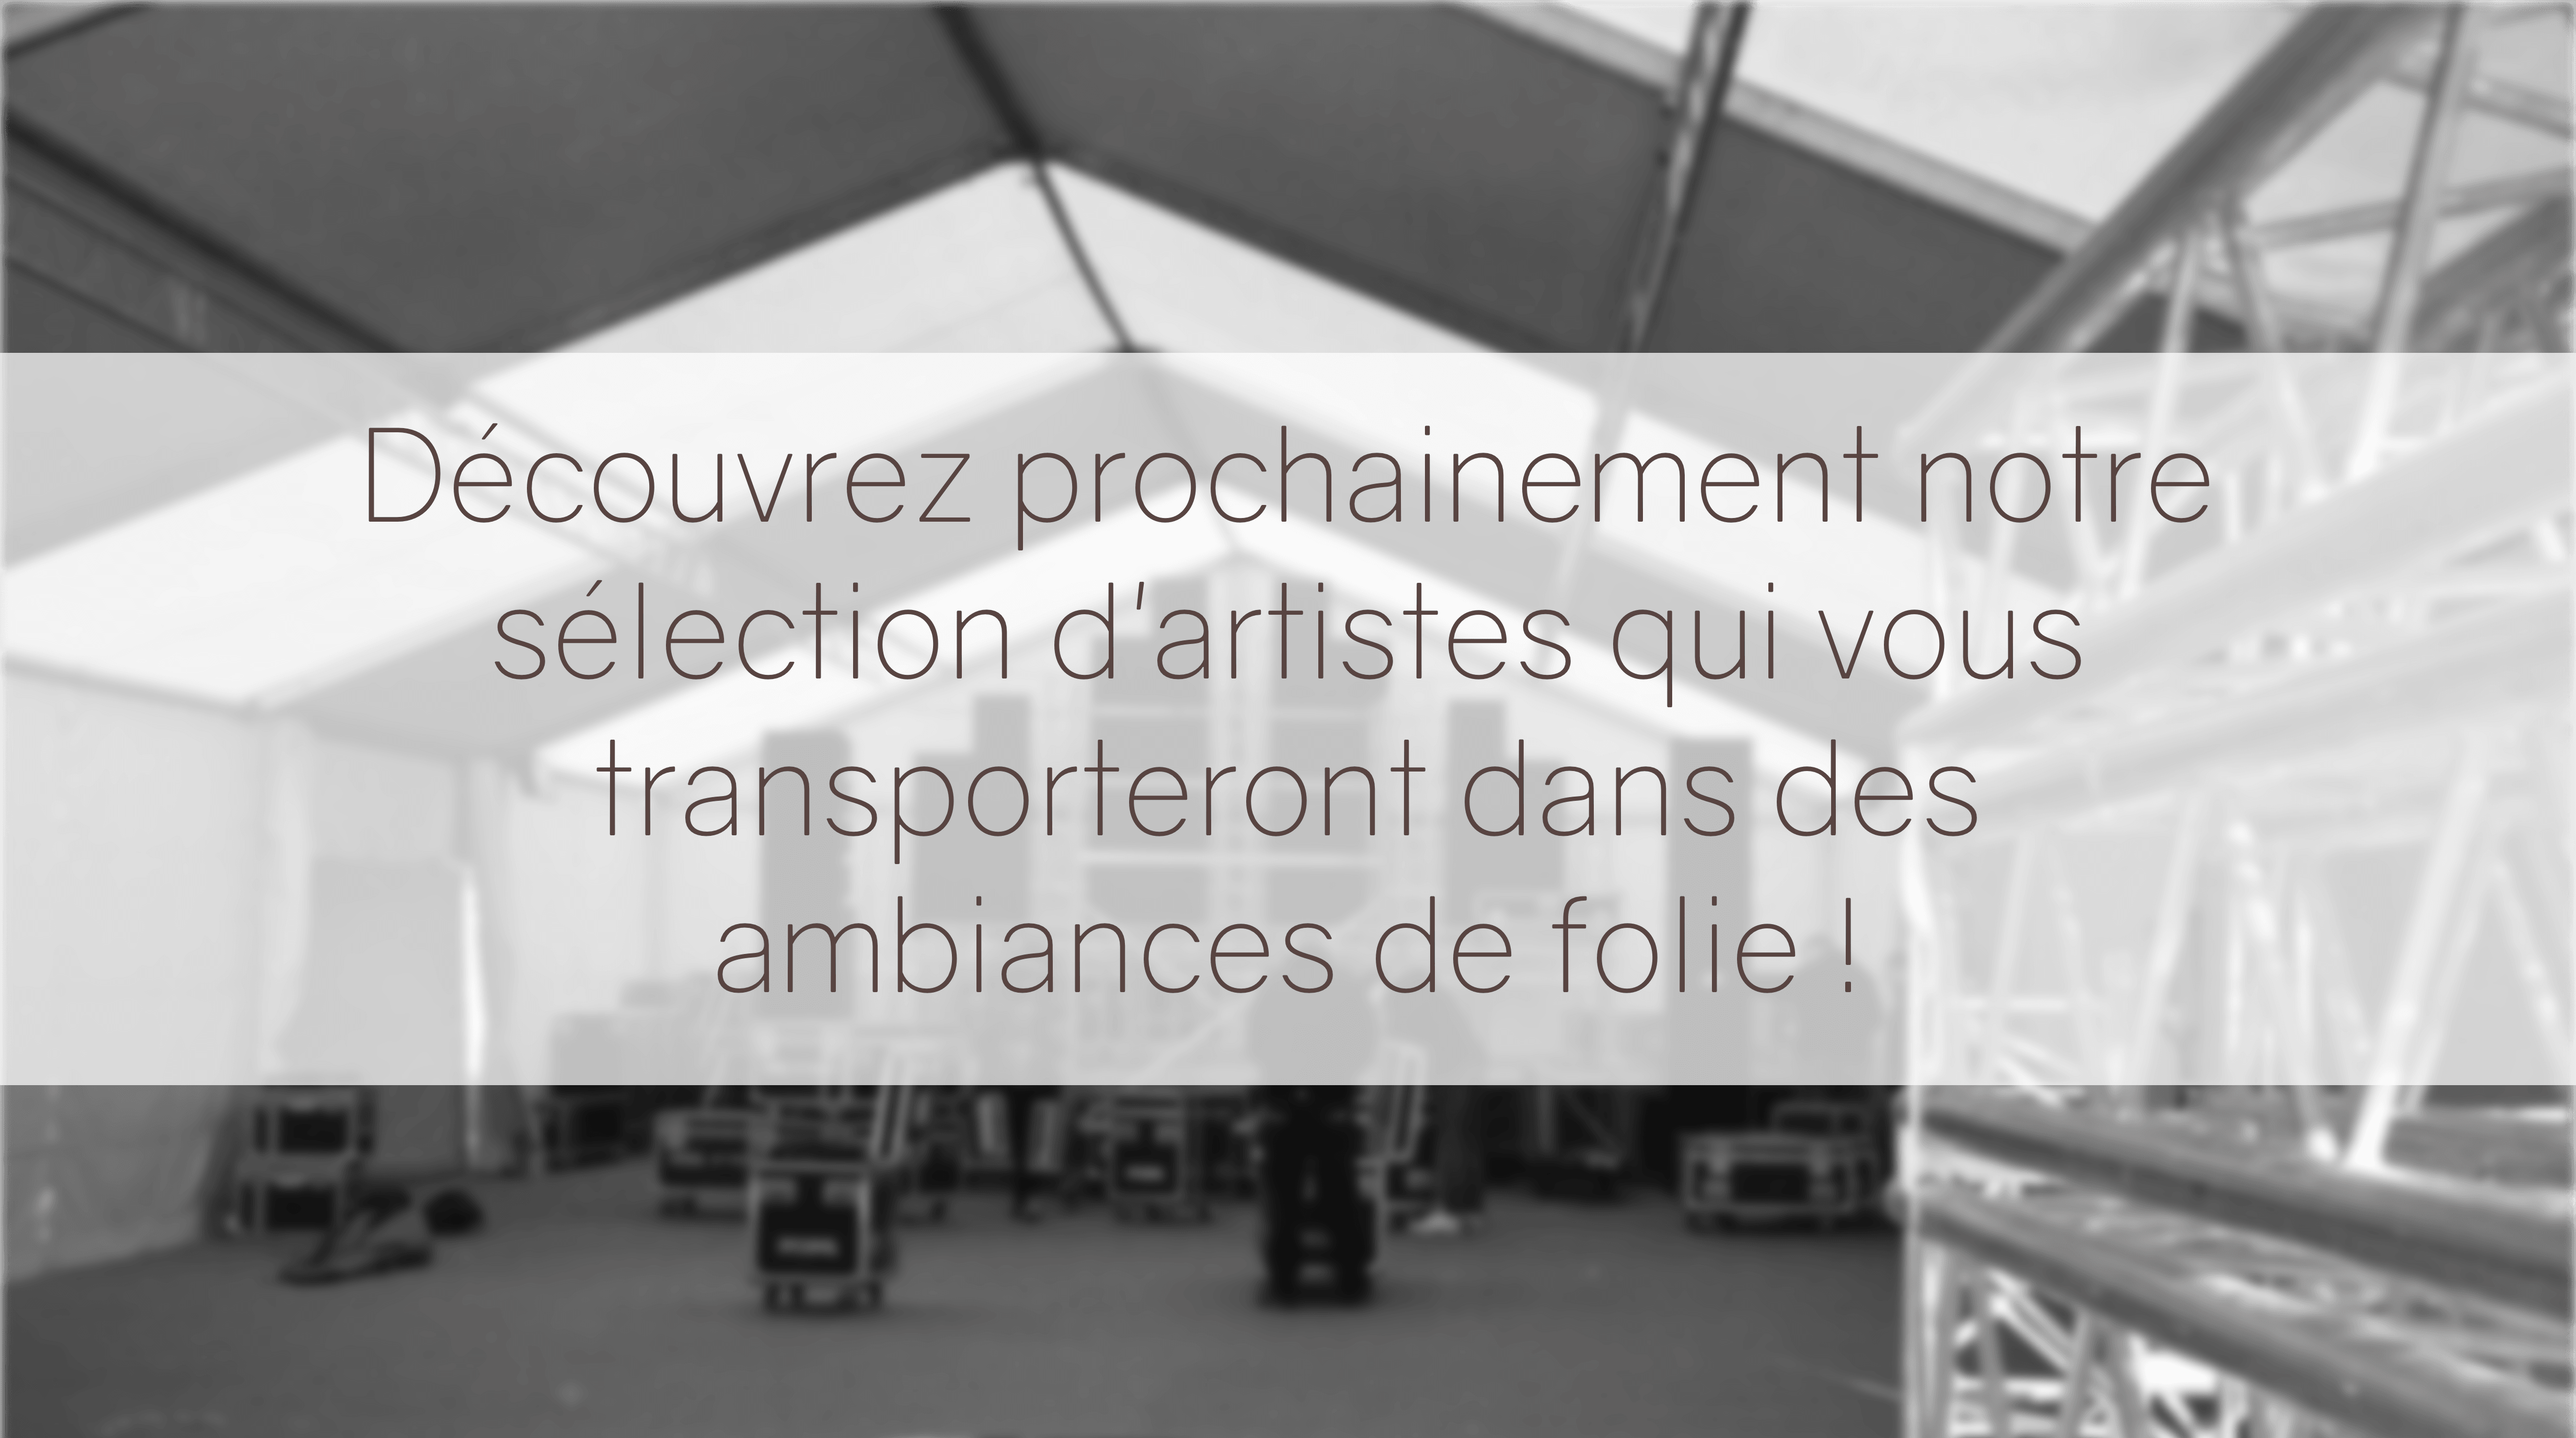
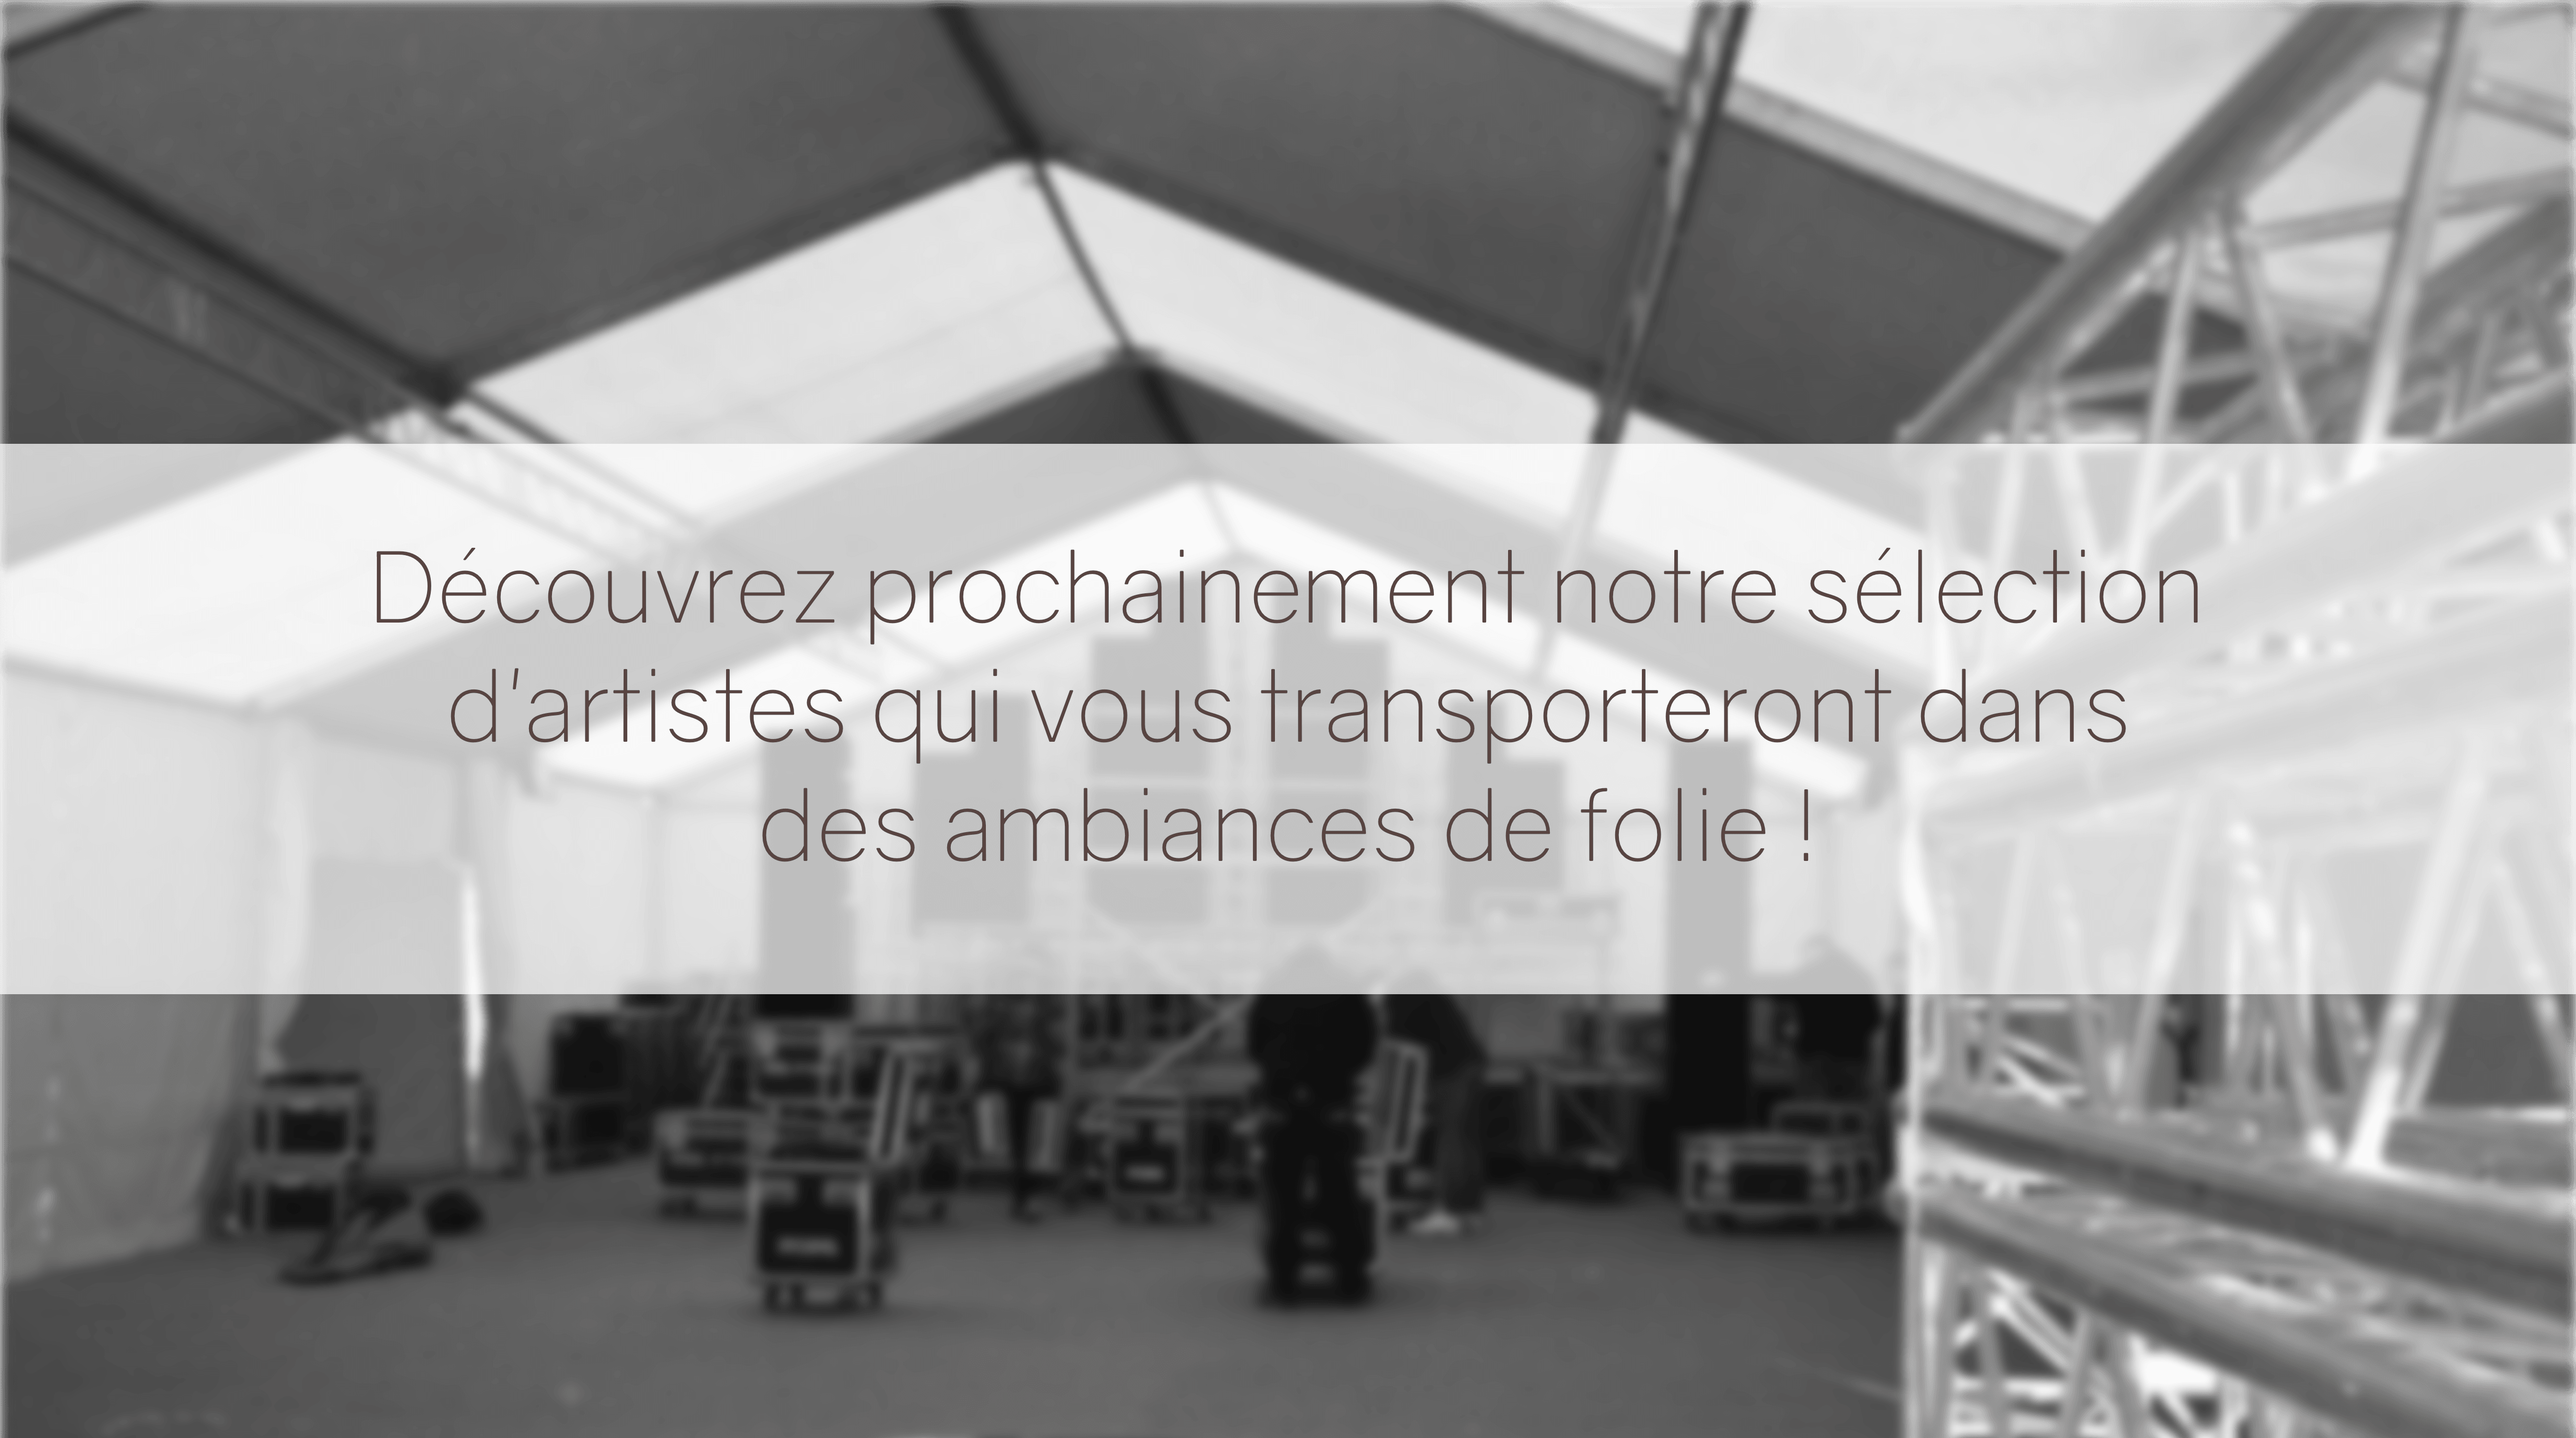
[Fix] Fix Typo and update image

Changed region(s): [[0.0, 0.618, 1.0, 0.7724], [0.1562, 0.4017, 0.8438, 0.618], [0.0, 0.2472, 1.0, 0.3708]]

diff --git a/statics/css/style.css b/statics/css/style.css
@@ -14,6 +14,11 @@
   font-family: "salvalyn";
   src: url("/fonts/Salvalyn-Demo.ttf");
 }
+body, html {
+  height: 100%;
+  min-height: 100%;
+}
+
 h1, h2, h3, h4, h5, h6 {
   margin: 0 0;
 }
@@ -25,14 +30,14 @@ h1, h2, h3, h4, h5, h6 {
   top: 0;
   left: 0;
   right: 0;
-  height: 100px;
+  height: 80px;
   z-index: 99;
   background-color: rgba(0, 0, 0, 0.4);
 }
 
 .navbar hr {
   position: absolute;
-  top: 90px;
+  top: 70px;
   width: 90%;
   right: 0;
   color: #ecd2b3;
@@ -44,13 +49,13 @@ h1, h2, h3, h4, h5, h6 {
   position: absolute;
   left: 0;
   top: 0;
-  line-height: 100px;
+  line-height: 80px;
   margin: 0 10px;
 }
 
 .navbar .left-nav img {
   margin: 5px 20px;
-  height: 90px;
+  height: 70px;
 }
 
 .navbar .right-nav {
@@ -67,7 +72,7 @@ h1, h2, h3, h4, h5, h6 {
 
 .navbar .right-nav ul li {
   float: left;
-  line-height: 100px;
+  line-height: 80px;
   margin: 0 3vw;
   position: relative;
 }
@@ -110,7 +115,7 @@ body, html {
 }
 
 .page .container {
-  padding-top: 100px;
+  padding-top: 80px;
 }
 
 .page .main-brand {
@@ -187,13 +192,16 @@ body, html {
 
 #gala-section {
   background-image: url("/img/compressor/background-compressor.png");
+  background-size: cover;
   position: relative;
+  height: auto;
+  min-height: 100%;
 }
 
 #gala-section .section-header {
   width: 100%;
   position: absolute;
-  top: 100px;
+  top: 80px;
 }
 
 #gala-section .container {
@@ -209,7 +217,16 @@ body, html {
   width: 30%;
 }
 
-#gala-section #droitEntree {
+#numbers {
+  background-image: url("/img/compressor/background-compressor.png");
+  background-size: cover;
+  position: absolute;
+  width: 100%;
+  height: auto !important;
+  min-height: 45% !important;
+}
+
+#numbers #droitEntree {
   position: absolute;
   font-family: gravity-light;
   bottom: 5%;
@@ -331,7 +348,7 @@ body, html {
 }
 
 #reservation .container {
-  padding-top: 100px;
+  padding-top: 80px;
 }
 
 #reservation .container p {
@@ -363,10 +380,6 @@ body, html {
   position: relative;
 }
 
-#contact .img-center {
-  transform: translate(0, -20%);
-}
-
 #contact .people {
   font-family: gravity-light;
   margin: 40px 0;
@@ -392,113 +405,29 @@ body, html {
   strong-font-family: gravity-bold;
 }
 
-/*# sourceMappingURL=style.css.map */
-/*# sourceMappingURL=style.css.map */
-/*# sourceMappingURL=style.css.map */
-/*# sourceMappingURL=style.css.map */
-/*# sourceMappingURL=style.css.map */
-/*# sourceMappingURL=style.css.map */
-/*# sourceMappingURL=style.css.map */
-/*# sourceMappingURL=style.css.map */
-/*# sourceMappingURL=style.css.map */
-/*# sourceMappingURL=style.css.map */
-/*# sourceMappingURL=style.css.map */
-/*# sourceMappingURL=style.css.map */
-/*# sourceMappingURL=style.css.map */
-/*# sourceMappingURL=style.css.map */
-/*# sourceMappingURL=style.css.map */
-/*# sourceMappingURL=style.css.map */
-/*# sourceMappingURL=style.css.map */
-/*# sourceMappingURL=style.css.map */
-/*# sourceMappingURL=style.css.map */
-/*# sourceMappingURL=style.css.map */
-/*# sourceMappingURL=style.css.map */
-/*# sourceMappingURL=style.css.map */
-/*# sourceMappingURL=style.css.map */
-/*# sourceMappingURL=style.css.map */
-/*# sourceMappingURL=style.css.map */
-/*# sourceMappingURL=style.css.map */
-/*# sourceMappingURL=style.css.map */
-/*# sourceMappingURL=style.css.map */
-/*# sourceMappingURL=style.css.map */
-/*# sourceMappingURL=style.css.map */
-/*# sourceMappingURL=style.css.map */
-/*# sourceMappingURL=style.css.map */
-/*# sourceMappingURL=style.css.map */
-/*# sourceMappingURL=style.css.map */
-/*# sourceMappingURL=style.css.map */
-/*# sourceMappingURL=style.css.map */
-/*# sourceMappingURL=style.css.map */
-/*# sourceMappingURL=style.css.map */
-/*# sourceMappingURL=style.css.map */
-/*# sourceMappingURL=style.css.map */
-/*# sourceMappingURL=style.css.map */
-/*# sourceMappingURL=style.css.map */
-/*# sourceMappingURL=style.css.map */
-/*# sourceMappingURL=style.css.map */
-/*# sourceMappingURL=style.css.map */
-/*# sourceMappingURL=style.css.map */
-/*# sourceMappingURL=style.css.map */
-/*# sourceMappingURL=style.css.map */
-/*# sourceMappingURL=style.css.map */
-/*# sourceMappingURL=style.css.map */
-/*# sourceMappingURL=style.css.map */
-/*# sourceMappingURL=style.css.map */
-/*# sourceMappingURL=style.css.map */
-/*# sourceMappingURL=style.css.map */
-/*# sourceMappingURL=style.css.map */
-/*# sourceMappingURL=style.css.map */
-/*# sourceMappingURL=style.css.map */
-/*# sourceMappingURL=style.css.map */
-/*# sourceMappingURL=style.css.map */
-/*# sourceMappingURL=style.css.map */
-/*# sourceMappingURL=style.css.map */
-/*# sourceMappingURL=style.css.map */
-/*# sourceMappingURL=style.css.map */
-/*# sourceMappingURL=style.css.map */
-/*# sourceMappingURL=style.css.map */
-/*# sourceMappingURL=style.css.map */
-/*# sourceMappingURL=style.css.map */
-/*# sourceMappingURL=style.css.map */
-/*# sourceMappingURL=style.css.map */
-/*# sourceMappingURL=style.css.map */
-/*# sourceMappingURL=style.css.map */
-/*# sourceMappingURL=style.css.map */
-/*# sourceMappingURL=style.css.map */
-/*# sourceMappingURL=style.css.map */
-/*# sourceMappingURL=style.css.map */
-/*# sourceMappingURL=style.css.map */
-/*# sourceMappingURL=style.css.map */
-/*# sourceMappingURL=style.css.map */
-/*# sourceMappingURL=style.css.map */
-/*# sourceMappingURL=style.css.map */
-/*# sourceMappingURL=style.css.map */
-/*# sourceMappingURL=style.css.map */
-/*# sourceMappingURL=style.css.map */
-/*# sourceMappingURL=style.css.map */
-/*# sourceMappingURL=style.css.map */
-/*# sourceMappingURL=style.css.map */
-/*# sourceMappingURL=style.css.map */
-/*# sourceMappingURL=style.css.map */
-/*# sourceMappingURL=style.css.map */
-/*# sourceMappingURL=style.css.map */
-/*# sourceMappingURL=style.css.map */
-/*# sourceMappingURL=style.css.map */
-/*# sourceMappingURL=style.css.map */
-/*# sourceMappingURL=style.css.map */
-/*# sourceMappingURL=style.css.map */
-/*# sourceMappingURL=style.css.map */
-/*# sourceMappingURL=style.css.map */
-/*# sourceMappingURL=style.css.map */
-/*# sourceMappingURL=style.css.map */
-/*# sourceMappingURL=style.css.map */
-/*# sourceMappingURL=style.css.map */
-/*# sourceMappingURL=style.css.map */
-/*# sourceMappingURL=style.css.map */
-/*# sourceMappingURL=style.css.map */
-/*# sourceMappingURL=style.css.map */
-/*# sourceMappingURL=style.css.map */
-/*# sourceMappingURL=style.css.map */
+#artistes .container {
+  padding-top: 0;
+}
+
+#artistes .container .section-header {
+  width: 100%;
+  position: absolute;
+  top: 80px;
+  z-index: 99;
+}
+
+#artistes .container .section-header h1 {
+  width: 30%;
+}
+
+#artistes .container .section-header hr {
+  width: 30%;
+}
+
+#gala-section .container {
+  padding-top: 0;
+}
+
 /*# sourceMappingURL=style.css.map */
 /*# sourceMappingURL=style.css.map */
 /*# sourceMappingURL=style.css.map */

diff --git a/statics/css/style.sass b/statics/css/style.sass
@@ -1,4 +1,4 @@
-$menu-height: 100px
+$menu-height: 80px
 $menu-items-distance: 3vw
 $font-color-1: #ecd2b3
 $nav-opacity: 0.4
@@ -35,6 +35,10 @@ $home-background-3: url("/img/compressor/background-compressor.png")
     background-clip: text
     -webkit-background-clip: text
     color: transparent
+
+body, html
+    height: 100%
+    min-height: 100%
 
 h1, h2, h3, h4, h5, h6
     margin: 0 0
@@ -176,7 +180,10 @@ body, html
 
 #gala-section
     background-image: $home-background-3
+    background-size: cover
     position: relative
+    height: auto
+    min-height: 100%
 
     .section-header
         width: 100%
@@ -192,6 +199,14 @@ body, html
     
     hr
         width: 30%
+    
+#numbers
+    background-image: $home-background-3
+    background-size: cover
+    position: absolute
+    width: 100%
+    height: auto !important
+    min-height: 45% !important
 
     #droitEntree
         position: absolute
@@ -319,9 +334,6 @@ body, html
         text-align: center
         min-height: 100%
         position: relative
-    
-    .img-center
-        transform: translate(0, -20%)
 
     .people
         font-family: gravity-light
@@ -342,3 +354,21 @@ body, html
 
         strong:
             font-family: gravity-bold
+
+#artistes .container
+    padding-top: 0
+
+    .section-header
+        width: 100%
+        position: absolute
+        top: $menu-height
+        z-index: 99
+
+        h1
+            width: 30%
+
+        hr
+            width: 30%
+
+#gala-section .container
+    padding-top: 0
